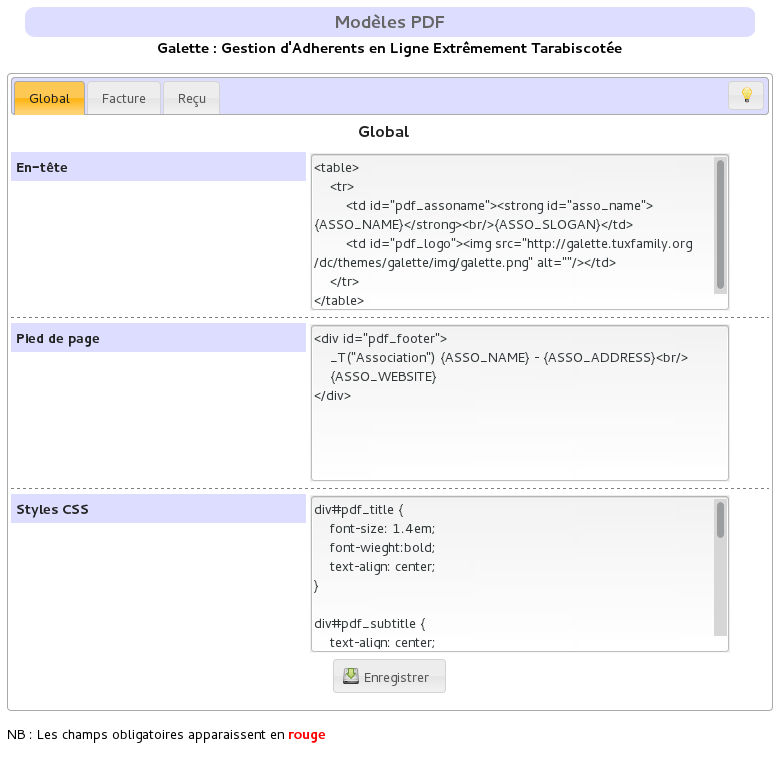
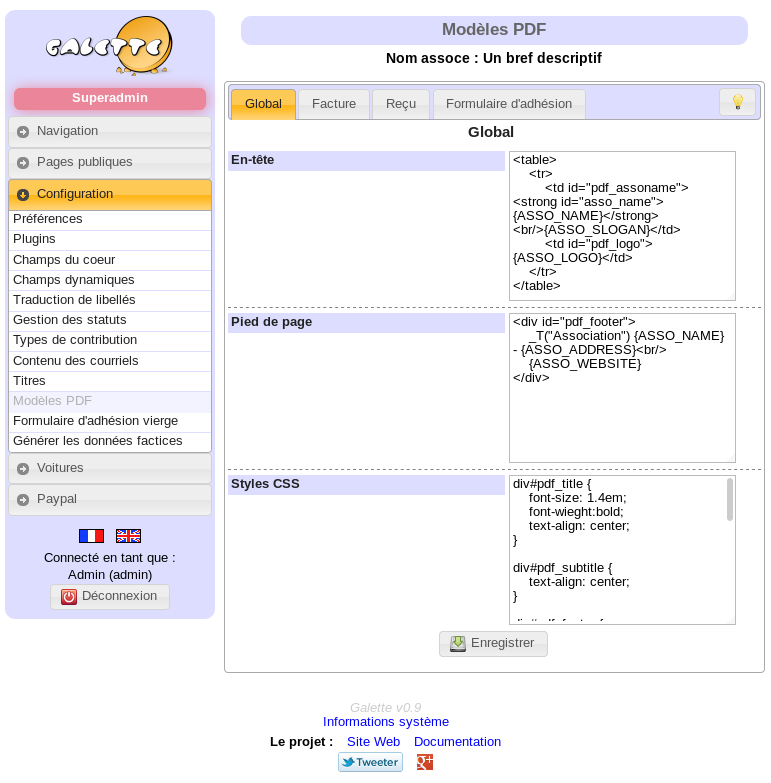
Mise à jour modèles PDF

diff --git a/source/usermanual/pdf_models.rst b/source/usermanual/pdf_models.rst
@@ -6,7 +6,7 @@ Modèles PDF
 
 Des modèles PDF sont disponibles pour différentes sorties.
 
-Actuellement, il existe un modèle factures et un modèle Reçu. Tous deux héritent d'un modèle `Global`.
+Actuellement, il existe un modèle factures, un modèle Reçu et un modèle formulaire d'adhésion. Tous héritent d'un modèle `Global`.
 
 .. image:: ../_styles/static/images/usermanual/pdf_models.png
    :scale: 75%
@@ -46,3 +46,10 @@ Les modèles factures et reçus sont sensiblement identiques, titre mis à part.
    :alt: Modèle PDF Factures
 
 Comme vous pourrez le constater dans la capture d'écran ci-dessus, le modèle Facture utilisera les en-tête et pied de page par défaut définis dans le modèle `Global`, aucun style CSS n'est ajouté par défaut. Le :doc:`plugin AdminTools <../plugins/admintools>` vous permet de réinitialiser les modèles par défaut à tout moment.
+
+Formulaire d'adhésion
+=====================
+
+Il s'agit d'un modèle qui peut être utilisé vide (pour imprimer des fiches d'adhésion lors d'évènements par exemple), ou pré-rempli avec les valeurs d'un adhérent spécifique.
+
+Les possiblités des modèles étant réduits, l'utlisation du :doc:`plugin FullCard </plugins/fullcard>` pourra remplacer ce modèle. Sa modification est plus complexe, mais le résultat peut être bien meilleur.
